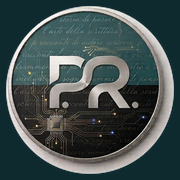
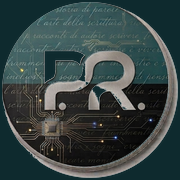
Centra il medaglione sul bordo cromato e compatta l'header.
Il ritaglio toglie l'anello di carta intorno al logo; barra, sigillo e bottone Anteprima sono più bassi.

diff --git a/SITES/index.html b/SITES/index.html
@@ -143,7 +143,7 @@
 
     .glass-nav {
       background: rgba(7, 9, 10, 0.55);
-      backdrop-filter: blur(18px) saturate(1.2);
+      backdrop-filter: blur(14px) saturate(1.2);
       border-bottom: 1px solid rgba(200, 205, 208, 0.08);
     }
     .glass-nav::after {
@@ -155,12 +155,13 @@
     }
 
     .brand-seal {
-      filter: drop-shadow(0 0 16px rgba(0,229,255,0.18));
+      display: block;
+      filter: drop-shadow(0 0 10px rgba(0,229,255,0.16));
       transition: transform 0.35s ease, filter 0.35s ease;
     }
     .group:hover .brand-seal {
       transform: rotate(-6deg) scale(1.04);
-      filter: drop-shadow(0 0 22px rgba(212,175,55,0.45));
+      filter: drop-shadow(0 0 16px rgba(212,175,55,0.45));
     }
 
     /* ===== HERO: the two hemispheres ===== */
@@ -286,27 +287,27 @@
       flex-direction: column;
       align-items: center;
       justify-content: flex-end;
-      padding: 6.5rem 1.25rem 3.2rem;
+      padding: 4.1rem 1.25rem 2.4rem;
     }
 
     .medallion-scene {
       perspective: 1100px;
-      margin-bottom: 1.4rem;
+      margin-bottom: 1rem;
     }
     .medallion-tilt {
       position: relative;
-      width: min(58vw, 340px);
+      width: min(52vw, 280px);
       aspect-ratio: 1;
       transform-style: preserve-3d;
       transition: transform 0.12s ease-out;
     }
     @media (min-width: 768px) {
-      .medallion-tilt { width: min(42vw, 390px); }
+      .medallion-tilt { width: min(34vw, 320px); }
     }
 
     .orbit-svg {
       position: absolute;
-      inset: -14%;
+      inset: -11%;
       animation: orbitSpin 80s linear infinite;
       pointer-events: none;
     }
@@ -332,14 +333,16 @@
     .medallion-tilt::after {
       content: "";
       position: absolute;
-      inset: 6%;
+      inset: 0;
       border-radius: 50%;
       z-index: 2;
       pointer-events: none;
-      background: linear-gradient(115deg, transparent 38%, rgba(255,255,255,0.28) 50%, transparent 62%);
+      background: linear-gradient(115deg, transparent 38%, rgba(255,255,255,0.22) 50%, transparent 62%);
       background-size: 220% 100%;
       animation: gleam 7s ease-in-out 1.2s infinite;
       mix-blend-mode: screen;
+      -webkit-mask-image: radial-gradient(circle at center, #000 66%, transparent 70%);
+      mask-image: radial-gradient(circle at center, #000 66%, transparent 70%);
     }
     @keyframes sealIn {
       from { opacity: 0; transform: scale(0.82) translateY(18px); filter: blur(8px); }
@@ -658,19 +661,19 @@
   <div class="scroll-trace" aria-hidden="true"><div class="scroll-trace-fill" id="scroll-fill"></div></div>
 
   <header class="sticky top-0 z-50 glass-nav">
-    <div class="mx-auto flex max-w-6xl items-center justify-between px-4 py-2.5 sm:px-6 lg:px-8">
-      <a href="#top" class="group flex items-center gap-3" aria-label="Paolo Riva — torna all'inizio">
+    <div class="mx-auto flex max-w-6xl items-center justify-between px-4 py-1 sm:px-6 lg:px-8">
+      <a href="#top" class="group flex items-center gap-2" aria-label="Paolo Riva — torna all'inizio">
         <img
           src="assets/logo-fr-sm.webp"
           alt=""
-          class="brand-seal h-11 w-11 rounded-full sm:h-12 sm:w-12"
-          width="48"
-          height="48"
+          class="brand-seal h-7 w-7 sm:h-8 sm:w-8"
+          width="32"
+          height="32"
         />
-        <span class="hidden font-display text-[11px] font-semibold uppercase tracking-[0.32em] text-silver/80 sm:inline">Paolo Riva</span>
+        <span class="hidden font-display text-[9px] font-semibold uppercase tracking-[0.28em] text-silver/75 sm:inline">Paolo Riva</span>
       </a>
 
-      <nav class="hidden items-center gap-7 font-mono text-[11px] uppercase tracking-[0.22em] text-ash/80 md:flex">
+      <nav class="hidden items-center gap-5 font-mono text-[10px] uppercase tracking-[0.2em] text-ash/80 md:flex">
         <a class="transition hover:text-chrome" href="#libri">I Libri</a>
         <a class="transition hover:text-chrome" href="#chi-sono">Chi sono</a>
         <a class="transition hover:text-chrome" href="#arc">Anteprima</a>
@@ -678,7 +681,7 @@
 
       <a
         href="#arc"
-        class="btn-gold rounded-full px-4 py-2 font-mono text-[11px] uppercase tracking-[0.18em] font-semibold transition hover:brightness-110"
+        class="btn-gold rounded-full px-3 py-1 font-mono text-[10px] uppercase tracking-[0.16em] font-semibold transition hover:brightness-110"
       >
         Anteprima
       </a>
@@ -863,7 +866,7 @@
             </div>
           </div>
 
-          <aside id="chi-sono" class="bio-panel reveal rounded-3xl p-6 sm:p-7 lg:sticky lg:top-24">
+          <aside id="chi-sono" class="bio-panel reveal rounded-3xl p-6 sm:p-7 lg:sticky lg:top-14">
             <p class="font-mono text-[10px] uppercase tracking-[0.32em] text-cyan/80">Chi sono</p>
             <h2 class="mt-2 font-display text-3xl font-bold text-paper sm:text-4xl">Paolo Riva</h2>
 
@@ -1010,9 +1013,9 @@
         <img
           src="assets/logo-fr-sm.webp"
           alt="Paolo Riva"
-          class="h-14 w-14 rounded-full opacity-95"
-          width="56"
-          height="56"
+          class="h-9 w-9 opacity-95"
+          width="36"
+          height="36"
         />
         <p class="text-sm text-ash/55">Copyright © Paolo Riva. Tutti i diritti riservati.</p>
         <p>

diff --git a/SITES/lettura/index.html b/SITES/lettura/index.html
@@ -100,7 +100,7 @@
 
   <div id="gate" class="flex min-h-screen items-center justify-center px-4 py-16">
     <div class="panel w-full max-w-md rounded-3xl p-8 shadow-2xl">
-      <img src="../assets/logo-fr-sm.webp" alt="" class="mx-auto mb-5 h-16 w-16 rounded-full" width="64" height="64" />
+      <img src="../assets/logo-fr-sm.webp" alt="" class="mx-auto mb-5 h-14 w-14" width="56" height="56" />
       <p class="font-mono text-[11px] uppercase tracking-[0.35em] text-gold">Accesso riservato</p>
       <h1 class="mt-3 font-serif text-3xl text-paper">La Veglia — anteprima</h1>
       <p class="mt-3 text-sm leading-relaxed text-ash/80">
